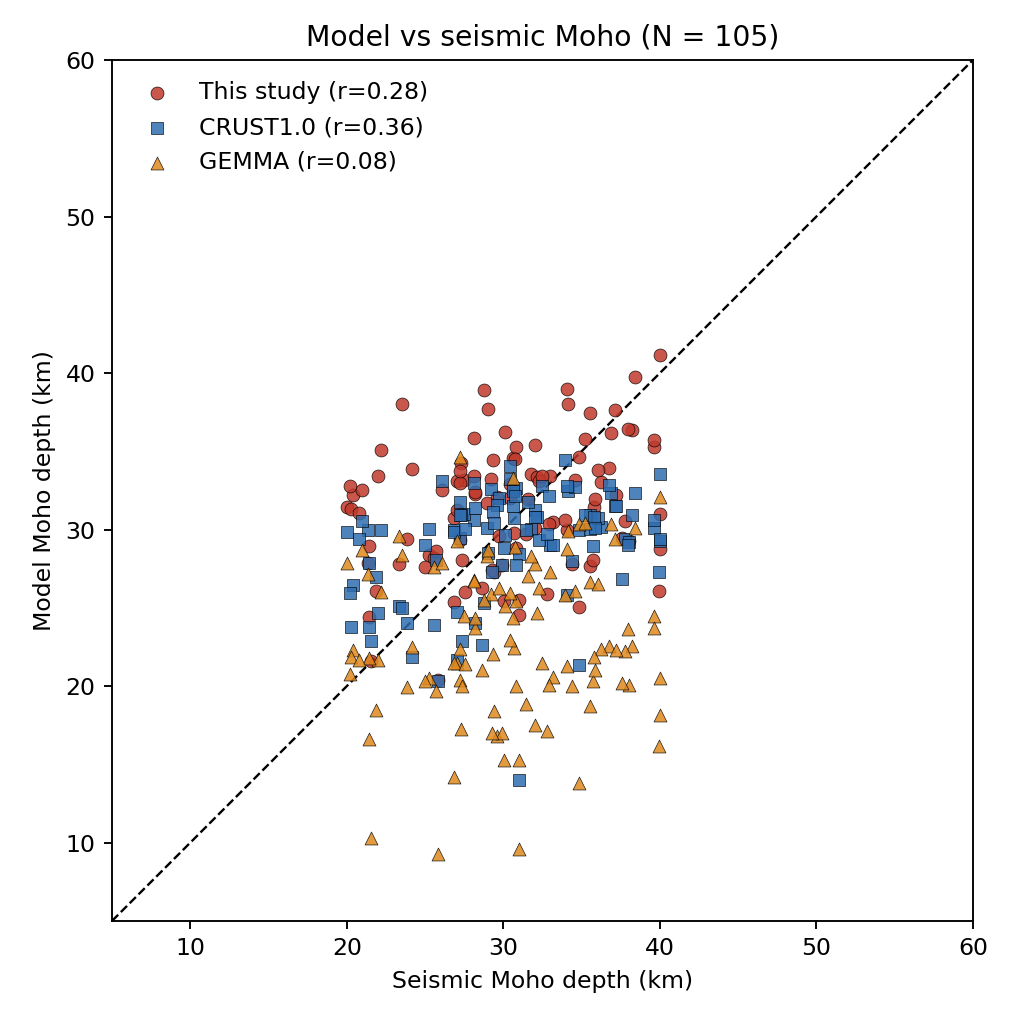
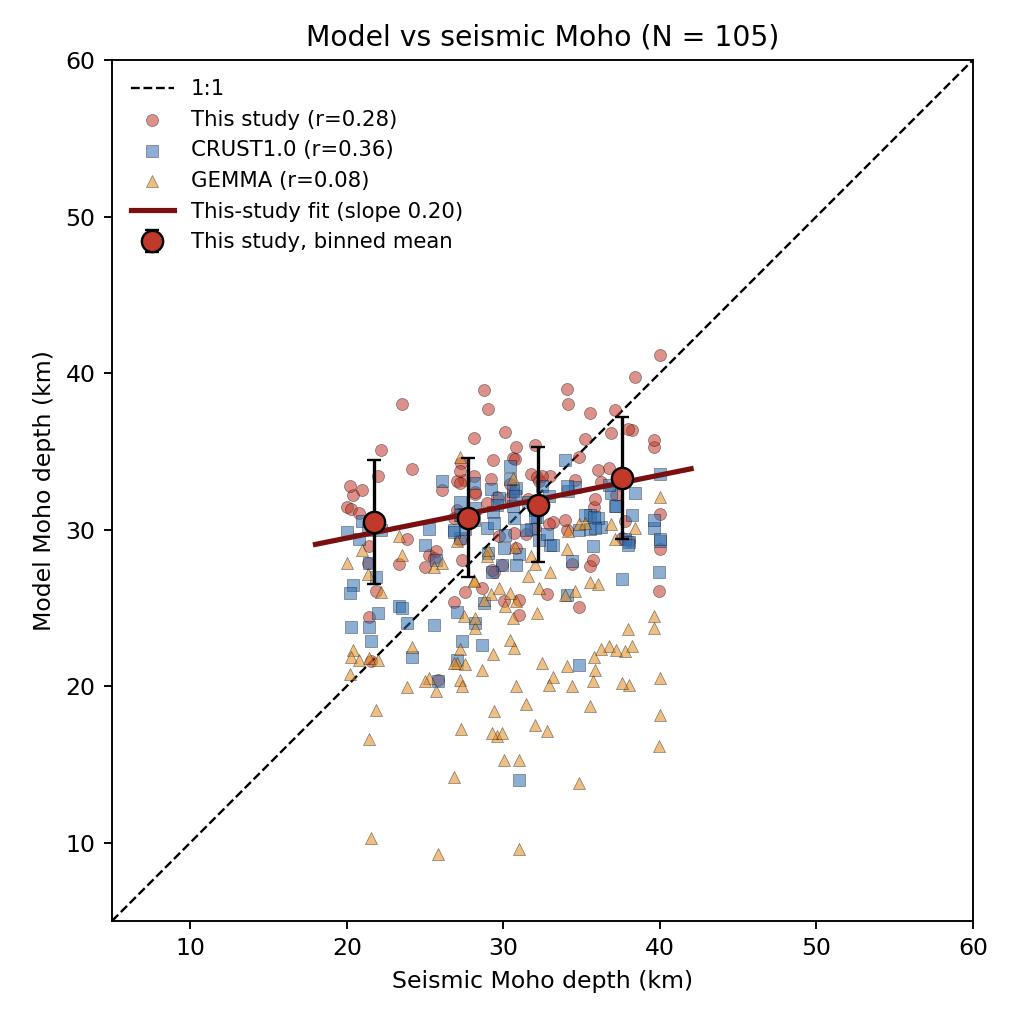
Address wide-scatter concern: benchmark + amplitude-compression analysis
Reviewer/author question on Figure 3's spread. Add honest context and diagnostics
to all three manuscripts (GRL, GJI, markdown) and the scatter figure.

- Figure 3 (scatter_vs_seismic.png): add OLS fit (slope 0.20, intercept 25 km) and
  binned means (+/-1 sigma) for this study, making the amplitude compression and
  the unbiased mean trend explicit.
- Text: benchmark 5.8 km against comparable studies (identical method in South
  America 6.8 km; CRUST1.0 at the same points 5.3 km; gravity Moho vs seismic
  routinely 4-8 km), and explain the modest point r=0.28 as (i) range restriction
  and (ii) resolution-driven amplitude compression, with binned-mean r=0.94 and the
  grid-to-grid AusMoho r=0.86 as the fairer like-with-like test.
- refs.bib: add van der Meijde et al. (2013).

Compile-checked: GJI 15 pp, GRL 7 pp (PU 8.3, abstract 144 w), no undefined refs.

diff --git a/manuscript/moho-indonesia-gji.tex b/manuscript/moho-indonesia-gji.tex
@@ -292,10 +292,22 @@ by a mean of $+1.2$~km and a standard deviation of $5.8$~km
 (Fig.~\ref{fig:validation}), comparable to the South American result. Robust
 statistics confirm this: the median difference is $+1.2$~km, the interquartile
 range $6.9$~km, and $63\%$ and $89\%$ of stations fall within $\pm5$ and
-$\pm10$~km, respectively (no points were excluded as outliers). The correlation
-against the seismic depths is modest ($r=0.28$) because the RF depths span only a
-narrow $20$--$40$~km range and are spatially clustered, which compresses the
-dynamic range available to the correlation coefficient.
+$\pm10$~km, respectively (no points were excluded as outliers). This scatter is
+comparable to the identical method in South America ($6.8$~km; \citealt{uieda2017})
+and to the seismically referenced {CRUST1.0} at these same stations ($5.3$~km;
+Table~\ref{tab:compare}); gravity Moho models routinely differ from seismic and from one
+another by $4$--$8$~km \citep{vandermeijde2013,reguzzoni2015}. The point
+correlation is modest ($r=0.28$) for two reasons. First, the RF depths span only a
+narrow $20$--$40$~km range and are spatially clustered, compressing the dynamic
+range available to the correlation coefficient. Second, and more physically, the
+model shows a resolution-driven \emph{amplitude compression}: an
+ordinary-least-squares fit of estimated on seismic depth has a slope of only
+$0.20$ (intercept $25$~km; Fig.~\ref{fig:scatter}), so the smooth $\sim67$~km
+satellite-gravity field overestimates the thinnest crust and underestimates the
+thickest, while still tracking the mean trend (binned-mean $r=0.94$). The
+grid-to-grid {AusMoho} comparison (Section~5), which compares like with like, is a
+fairer test and yields $r=0.86$, confirming that the low point-wise $r$ largely
+reflects the test rather than the model.
 
 \textbf{Resolution.} Refining the grid to $0.25^{\circ}$ with {GOCO06s} does not
 improve the seismic fit because the satellite signal does not support finer
@@ -483,9 +495,12 @@ contours (35-km contour in white).}
 \begin{figure}
 \centering\includegraphics[width=\columnwidth]{scatter_vs_seismic.png}
 \caption{Depth--depth comparison of estimated against seismic Moho at the 105 RF
-stations for this study, {CRUST1.0} and {GEMMA} (dashed $1{:}1$ line). This study
-and {CRUST1.0} scatter about the line; {GEMMA} lies systematically below it (too
-shallow). Correlations are given in the legend and Table~\ref{tab:compare}.}
+stations for this study, {CRUST1.0} and {GEMMA} (dashed $1{:}1$ line). The solid
+line is the ordinary-least-squares fit to this study (slope $0.20$) and the large
+circles are binned means ($\pm1\sigma$): the model tracks the mean trend but
+compresses the amplitude, a resolution effect of the smooth satellite gravity.
+This study and {CRUST1.0} scatter about the line; {GEMMA} lies systematically below
+it (too shallow). Correlations are in the legend and Table~\ref{tab:compare}.}
 \label{fig:scatter}
 \end{figure}
 

diff --git a/manuscript/moho-indonesia-grl.tex b/manuscript/moho-indonesia-grl.tex
@@ -153,8 +153,18 @@ highlands, and thin (10--20~km) beneath the marginal and oceanic basins, with th
 depths by a mean of $+1.2$~km and standard deviation of $5.8$~km
 (Figure~\ref{fig:validation}), comparable to the South American result (1.2,
 6.8~km); the median is $+1.2$~km, interquartile range 6.9~km, with 63\% and 89\% of
-stations within $\pm5$ and $\pm10$~km. The modest correlation ($r=0.28$) reflects
-the narrow 20--40~km range and clustering of the RF depths. Refining the grid to
+stations within $\pm5$ and $\pm10$~km. This scatter is comparable to the identical
+method in South America (6.8~km; \citeA{uieda2017}) and to the seismically
+referenced CRUST1.0 at these same stations (5.3~km; below), and gravity Moho models
+routinely differ from seismic and from each other by 4--8~km
+\cite{vandermeijde2013,reguzzoni2015}. The modest point correlation ($r=0.28$)
+reflects the narrow 20--40~km range and clustering of the RF depths and a
+resolution-driven amplitude compression: the smooth $\sim$67-km gravity field
+underestimates the sharpest local extremes (regression slope 0.20, intercept
+25~km; Figure~\ref{fig:scatter}), overestimating the thinnest and underestimating
+the thickest RF crust, while tracking the mean trend (binned-mean $r=0.94$). The
+grid-to-grid AusMoho comparison (below), which matches like with like, is a fairer
+test and yields $r=0.86$. Refining the grid to
 $0.25^{\circ}$ with GOCO06s does not improve the fit, because at degree/order 300
 the shortest resolved half-wavelength is $\approx67$~km; the altimetry field
 recovers finer detail and near-zero bias (Table~S2).
@@ -243,7 +253,10 @@ competing interests.
 \begin{figure}
 \centering\includegraphics[width=0.8\textwidth]{../figures/moho/scatter_vs_seismic.png}
 \caption{Estimated versus seismic Moho depth at the 105 stations for this study,
-CRUST1.0 and GEMMA (dashed 1:1 line). GEMMA lies systematically below the line.}
+CRUST1.0 and GEMMA (dashed 1:1 line). The solid line is the ordinary-least-squares
+fit to this study (slope 0.20) and the large circles are binned means ($\pm1\sigma$):
+the model tracks the trend but compresses the amplitude, a resolution effect of the
+smooth satellite gravity. GEMMA lies systematically below the line.}
 \label{fig:scatter}
 \end{figure}
 

diff --git a/moho_indonesia/compare_global_models.py b/moho_indonesia/compare_global_models.py
@@ -88,16 +88,32 @@ def main():
 
     palette = {"This study (gravity)": ("#c0392b", "o"),
                "CRUST1.0": ("#2f6db0", "s"), "GEMMA": ("#e08a1e", "^")}
-    # ---- Fig: depth-depth scatter (all models vs seismic) ----
+    # ---- Fig: depth-depth scatter (all models vs seismic) + regression + bin means ----
+    ours_ok = np.isfinite(ours)
+    slope, intercept = np.polyfit(sdep[ours_ok], ours[ours_ok], 1)   # OLS: model on seismic
+    print(f"This-study OLS fit: slope={slope:.2f}, intercept={intercept:.1f} km "
+          f"(slope<1 => amplitude compression)")
+    edges = np.array([20, 25, 30, 35, 41])
+    bctr, bmean, bstd = [], [], []
+    for a, b in zip(edges[:-1], edges[1:]):
+        m = (sdep >= a) & (sdep < b) & ours_ok
+        if m.sum():
+            bctr.append(sdep[m].mean()); bmean.append(ours[m].mean()); bstd.append(ours[m].std())
+
     fig, ax = plt.subplots(figsize=(6, 6))
-    ax.plot([5, 60], [5, 60], "k--", lw=1, zorder=0)
+    ax.plot([5, 60], [5, 60], "k--", lw=1, zorder=0, label="1:1")
     for name, est in models.items():
         c, m = palette.get(name, ("gray", "o"))
-        ax.scatter(sdep, est, s=30, c=c, edgecolor="k", lw=0.3, marker=m, alpha=0.85,
+        ax.scatter(sdep, est, s=26, c=c, edgecolor="k", lw=0.25, marker=m, alpha=0.55,
                    label=f"{name.replace(' (gravity)','')} (r={corr[name]:.2f})")
+    xr_ = np.array([18, 42])
+    ax.plot(xr_, slope * xr_ + intercept, "-", color="#7a0f0f", lw=2.2, zorder=5,
+            label=f"This-study fit (slope {slope:.2f})")
+    ax.errorbar(bctr, bmean, yerr=bstd, fmt="o", ms=9, color="k", mfc="#c0392b",
+                mec="k", lw=1.4, capsize=3, zorder=6, label="This study, binned mean")
     ax.set(xlim=[5, 60], ylim=[5, 60], xlabel="Seismic Moho depth (km)",
            ylabel="Model Moho depth (km)", title="Model vs seismic Moho (N = 105)")
-    ax.legend(frameon=False, loc="upper left"); ax.set_aspect("equal")
+    ax.legend(frameon=False, loc="upper left", fontsize=9); ax.set_aspect("equal")
     fig.tight_layout(); fig.savefig(C.FIGURES / "scatter_vs_seismic.png", dpi=170)
 
     # ---- Fig: validation points + difference-from-CRUST1.0 + difference-from-GEMMA ----

diff --git a/manuscript/moho-indonesia-manuscript-draft.md b/manuscript/moho-indonesia-manuscript-draft.md
@@ -115,7 +115,7 @@ We invert on $0.5^{\circ}$ and $0.25^{\circ}$ grids with both the GOCO06S satell
 
 **Moho model.** The preferred GOCO06S model at 0.5° yields Moho depths of ~7–59 km. The crust is thick (35–45 km) beneath the Sunda volcanic arc (Sumatra, Java), the Sulawesi and Banda arcs, and the Papuan highlands, and thin (10–20 km) beneath the deep marginal basins (e.g. Banda Sea, Celebes/Makassar) and the oceanic domains. The 35-km contour closely outlines the main arc/continental blocks (Figure 1).
 
-**Validation.** The estimated Moho differs from the 105 seismic depths by a mean of **+1.1 km** and a standard deviation of **5.8 km** (GOCO06S, 0.5°), comparable to the original South American result (mean 1.2 km, std 6.8 km). Robust statistics agree: median +1.2 km, interquartile range 6.9 km, with 63% and 89% of stations within ±5 and ±10 km respectively (no outliers excluded). The correlation against the seismic depths is modest (r = 0.28) because the RF depths span only a narrow 20–40 km range and are spatially clustered, compressing the dynamic range available to the correlation coefficient. The largest residuals cluster along the arcs and collision fronts (Figure 7b).
+**Validation.** The estimated Moho differs from the 105 seismic depths by a mean of **+1.1 km** and a standard deviation of **5.8 km** (GOCO06S, 0.5°), comparable to the original South American result (mean 1.2 km, std 6.8 km). Robust statistics agree: median +1.2 km, interquartile range 6.9 km, with 63% and 89% of stations within ±5 and ±10 km respectively (no outliers excluded). This scatter is comparable to the identical method in South America (6.8 km; Uieda & Barbosa, 2017) and to the seismically referenced CRUST1.0 at these same stations (5.3 km; Table 2); gravity Moho models routinely differ from seismic and from one another by 4–8 km (van der Meijde et al., 2013; Reguzzoni & Sampietro, 2015). The point correlation is modest (r = 0.28) for two reasons. First, the RF depths span only a narrow 20–40 km range and are spatially clustered, compressing the dynamic range available to the correlation coefficient. Second, and more physically, the model shows a resolution-driven **amplitude compression**: an ordinary-least-squares fit of estimated on seismic depth has a slope of only 0.20 (intercept 25 km; Figure 8), so the smooth ~67 km satellite-gravity field overestimates the thinnest crust and underestimates the thickest, while still tracking the mean trend (binned-mean r = 0.94). The grid-to-grid AusMoho comparison (§5), which compares like with like, is a fairer test and yields r = 0.86 — confirming that the low point-wise r largely reflects the test, not the model. The largest residuals cluster along the arcs and collision fronts (Figure 7b).
 
 **Sediment correction.** Adding the CRUST1.0 sediment correction (sediment thickness 0–8.7 km, effect −3 to −191 mGal) does **not** improve the fit to the seismic Moho (mean −1.6 km, std 6.4 km). We attribute this to the land-biased validation: the seismic stations sit where CRUST1.0 sediments are thin, whereas the correction mainly reshapes offshore basins that the validation does not sample.
 
@@ -191,7 +191,7 @@ All inversion, calibration and plotting code is openly available at **https://gi
 5. **`ausmoho_comparison.png`** — Independent validation against AusMoho (Kennett et al., 2011): scatter of our vs AusMoho depth (coloured by latitude) and histogram of differences over the northern-Australia overlap.
 6. **`hyperparameters.png`** — Hyperparameter diagnostics: μ hold-out cross-validation curve and the (z_ref, Δρ) validation-MSE surface (minimum at μ=10⁻¹⁰, z_ref=35 km, Δρ=500 kg m⁻³).
 7. **`compare_global_models.png`** — (a) the 105 RF validation stations coloured by seismic depth (dense on Sumatra/Java, sparse in the east, absent offshore); (b) difference between this study and CRUST1.0 (agreement within ±5 km inland, deeper only along the Sunda–Java trench); (c) difference between this study and GEMMA (our model 5–10 km deeper almost everywhere).
-8. **`scatter_vs_seismic.png`** — Depth–depth comparison of estimated vs seismic Moho at the 105 stations for this study, CRUST1.0 and GEMMA (1:1 line); GEMMA lies systematically below the line.
+8. **`scatter_vs_seismic.png`** — Depth–depth comparison of estimated vs seismic Moho at the 105 stations for this study, CRUST1.0 and GEMMA (1:1 line). Solid line = OLS fit to this study (slope 0.20); large circles = binned means (±1σ): the model tracks the mean trend but compresses amplitude (a resolution effect). GEMMA lies systematically below the line.
 
 ---
 
